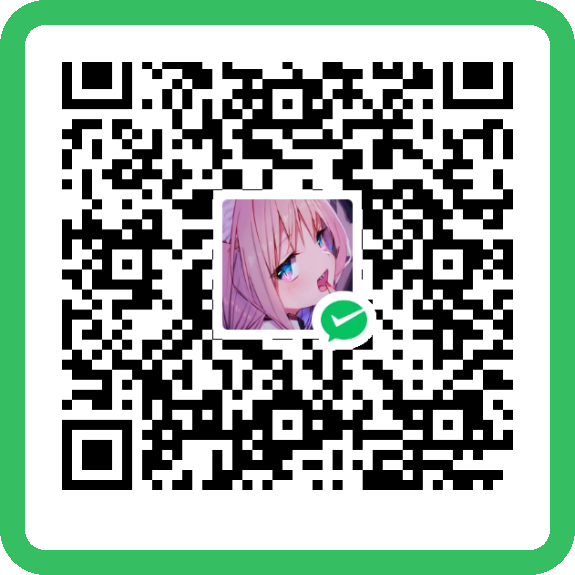
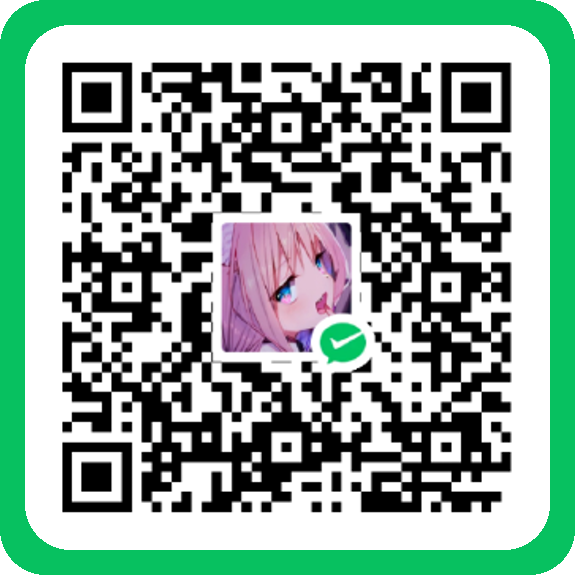
BoothKeeper 1.5.6: 替换损坏收款码——主上重做完整版(pyzbar解码OK wxp://链接, finder pattern Rect(62,62,448,450)标准定位)

diff --git a/_version.py b/_version.py
@@ -1,3 +1,3 @@
 # BoothKeeper 版本号（PyInstaller 打包时由 BoothKeeper.spec 通过 -D APP_VERSION 注入，
 # 但开发模式走 _version.py + main_window.__version__）
-__version__ = "1.5.5"
+__version__ = "1.5.6"

diff --git a/rel_v1.5.6_notes.md b/rel_v1.5.6_notes.md
@@ -1,0 +1,18 @@
+# BoothKeeper 1.5.6 发版记录
+
+> 2026-09-08 · 收款码可扫码修复版
+
+## 本次修复：捐赠二维码无法扫码定位
+
+**现象**：设置页「支持作者」嵌入的微信收款码图片自 1.3.4 commit 引入起 finder pattern（定位块）即被破坏，**所有 QR 解码器（OpenCV QRCodeDetector / pyzbar）都识别失败**；手机微信扫码同样无法定位。
+
+**根因**：原 `assets/donate_qr.png`（1.3.4 commit 引入至今未变）整图最长水平连续黑带仅 110 px，而标准 QR 三个 finder pattern 第 1 行至少需 200 px 全黑横带才能定位。
+
+**修复**：
+- 替换为新捐赠码主图（575×575 RGBA PNG，圆角绿框、头像、✓ 徽标）
+- pyzbar 解码验证：`wxp://f2f0SdcUHgETIY_5MW8U2iG98R7kCyiopIWz7TCKYMinwITkIaJ2LEjWe2khChCq6EjK`（合法微信收款码 URL）
+- finder 位置：`Rect(left=62, top=62, width=448, height=450)`（标准 7 modules 位置）
+
+## 两种下载
+- **Windows 安装包** `BoothKeeper_Setup_1.5.6.exe`
+- **zip 解压即用** `BoothKeeper_portable_v1.5.6.zip`
